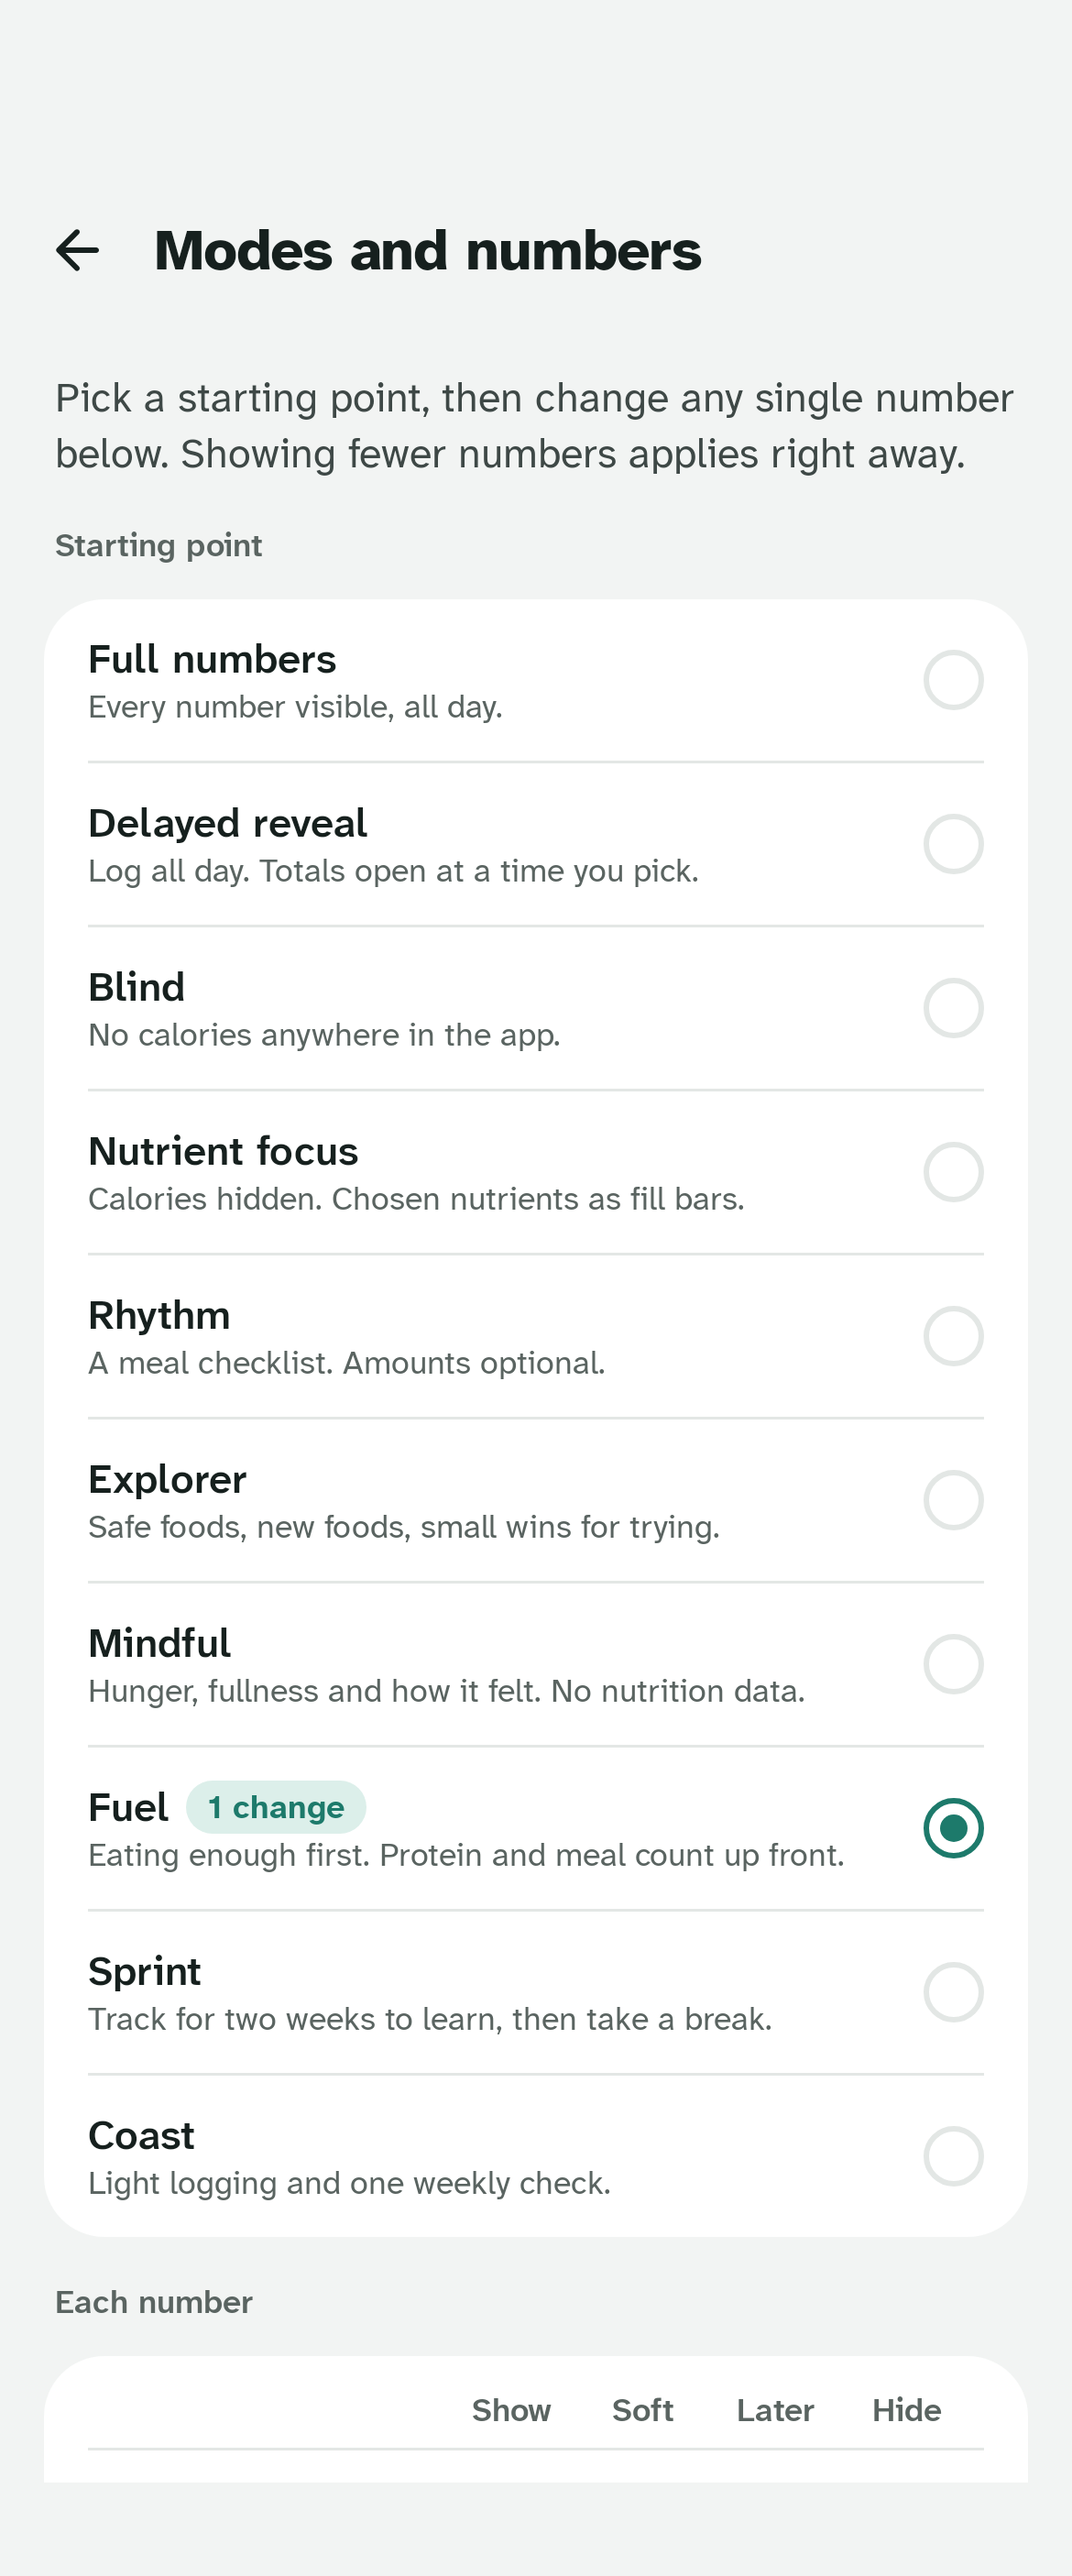
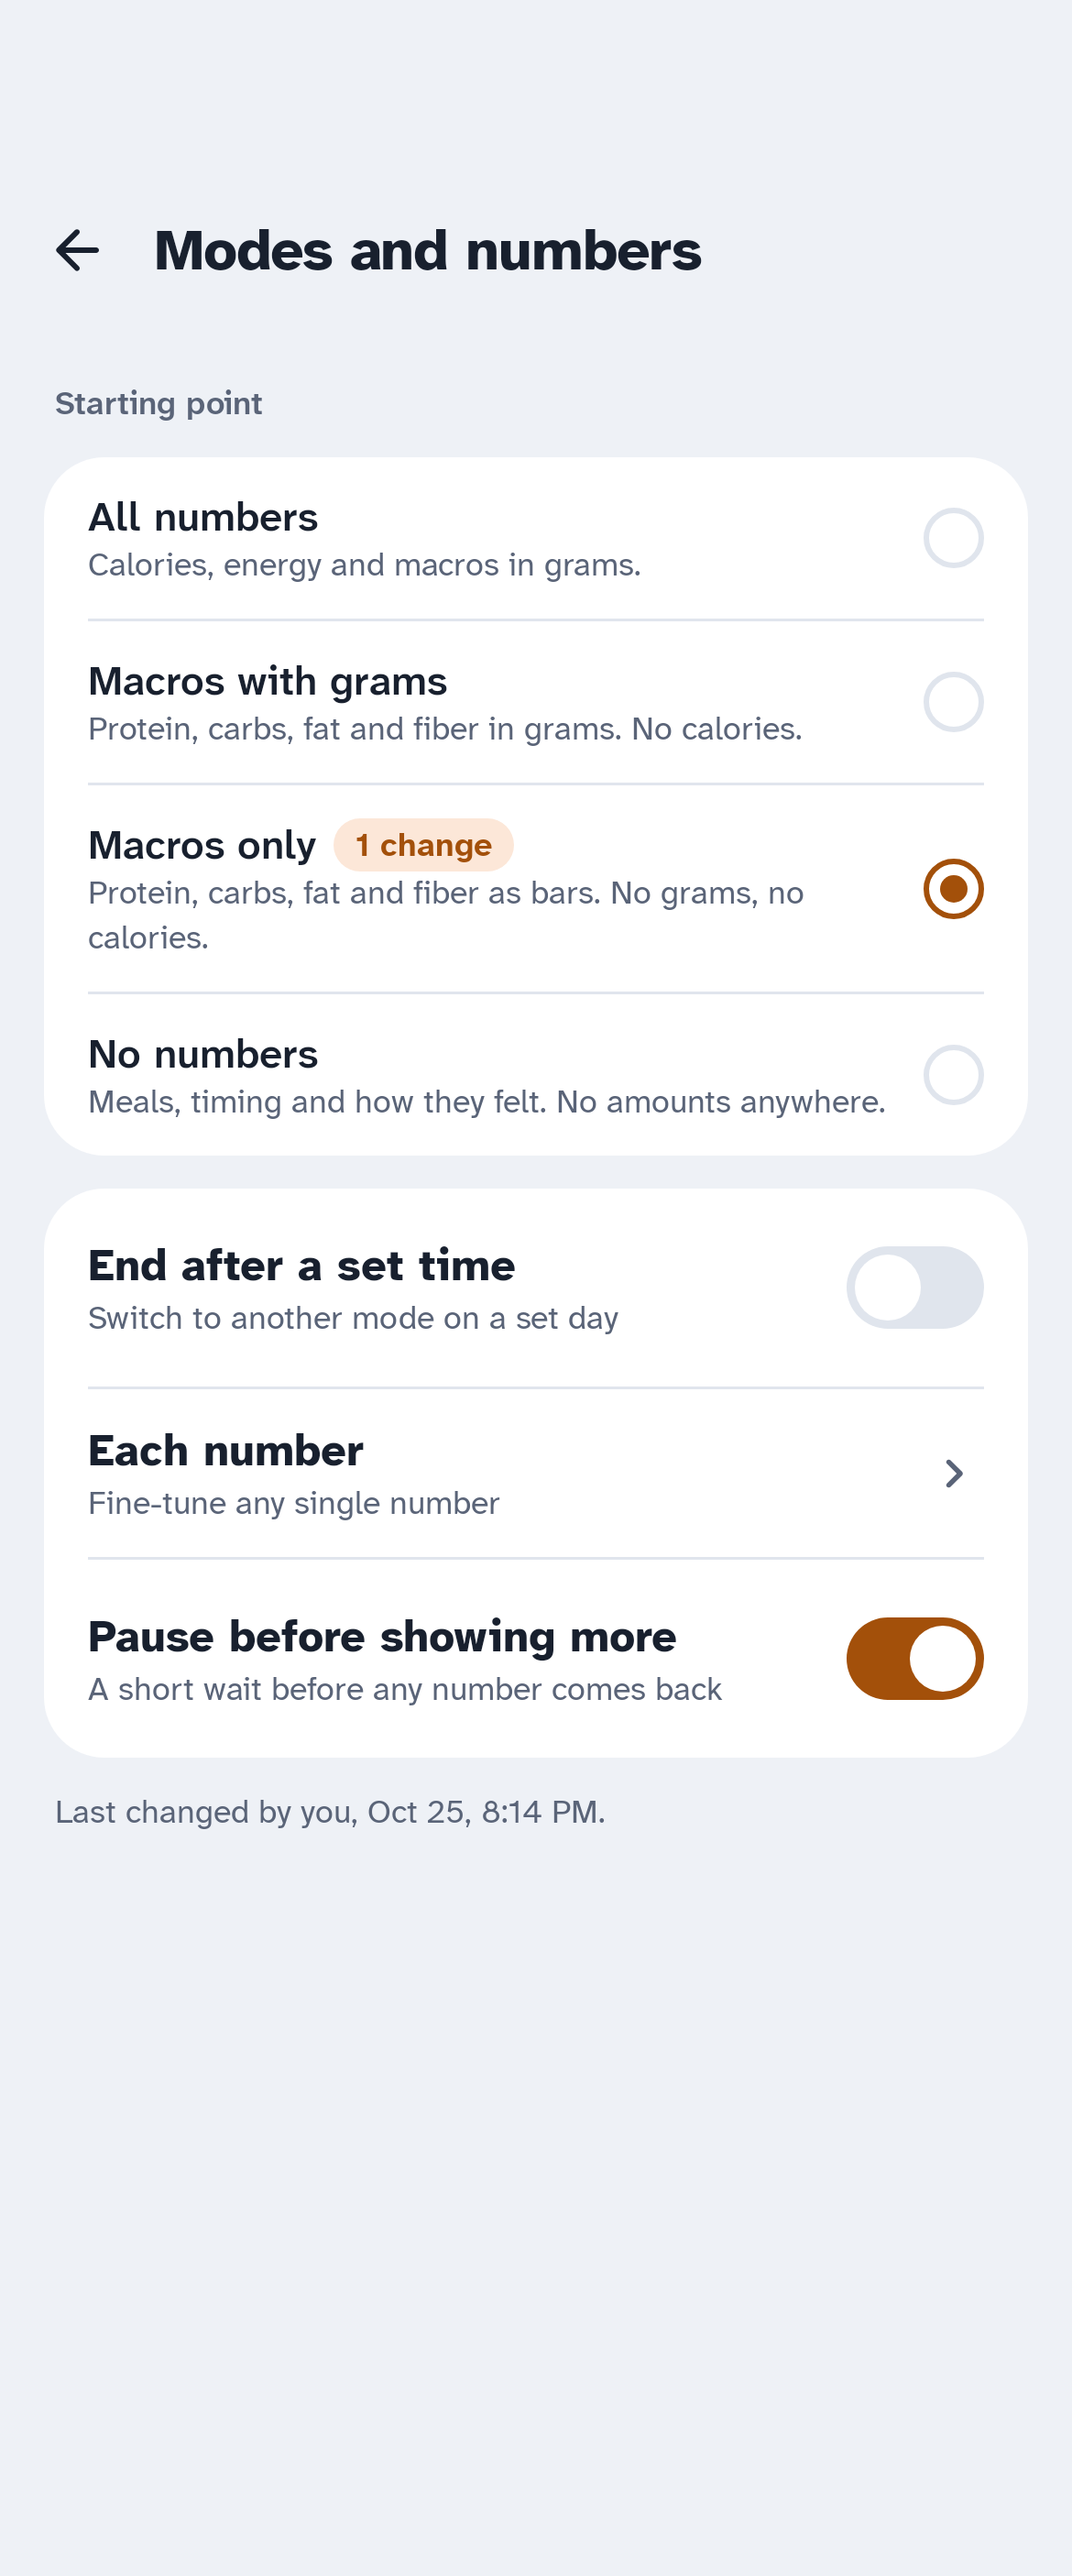
feat(website): new screenshots from the orange app and its four modes
All eight phone shots are rendered again from the app's light previews, so
the site shows the orange accent, the new Today and the modes as they are
now: All numbers, Macros with grams, Macros only and No numbers. The modes
copy and the alt text follow, and the README lists which preview each shot
comes from and how they are padded.

diff --git a/website/README.md b/website/README.md
@@ -40,10 +40,27 @@ nothing to keep in sync by hand:
   privacy page puts `src/content/site-privacy.md` above the app policy. That
   wording stays in `website/` because editing `legal/` publishes to
   nightjarlabs.llc through the legal-sync workflow.
-- The home page uses the App Store screenshots in
-  `docs/app-store/screenshots/` and one design image,
-  `docs/design/v3/support.png`, cropped to its export and delete buttons.
-  Astro resizes them to WebP at 1x and 2x when it builds.
+
+The phone shots in `src/assets/screens/` are copies, so they go stale when the
+app changes. Each is a light-theme Compose preview rendered by
+`./gradlew :apps:screenshots:recordRoborazziDebug` (390x844 pt at 3x, into
+`apps/screenshots/build/outputs/roborazzi/`), with a 177 px strip added on top
+in the image's top-left colour and a 102 px strip at the bottom in its
+bottom-left colour, so the rounded frame doesn't cut into the app. The previews
+they come from:
+
+| Shot             | Preview render                               |
+| ---------------- | -------------------------------------------- |
+| `today-full`     | `today-previews__today-full`                 |
+| `today-blind`    | `today-previews__today-no-numbers-light`     |
+| `search`         | `search-preview__full-light`                 |
+| `describe`       | `logger-previews__logger-describe`           |
+| `targets-by-day` | `targets-screen__targets-by-day`             |
+| `modes`          | `modes-screen__modes`                        |
+| `trends`         | `trends-previews__trends`                    |
+| `support`        | `support-screen__support`                    |
+
+Astro resizes them to WebP at 1x and 2x when it builds.
 
 The layout borrows cronometer.com's shape: a dark band with the headline, the
 form and a phone, then one colored block per feature. The colors are the
